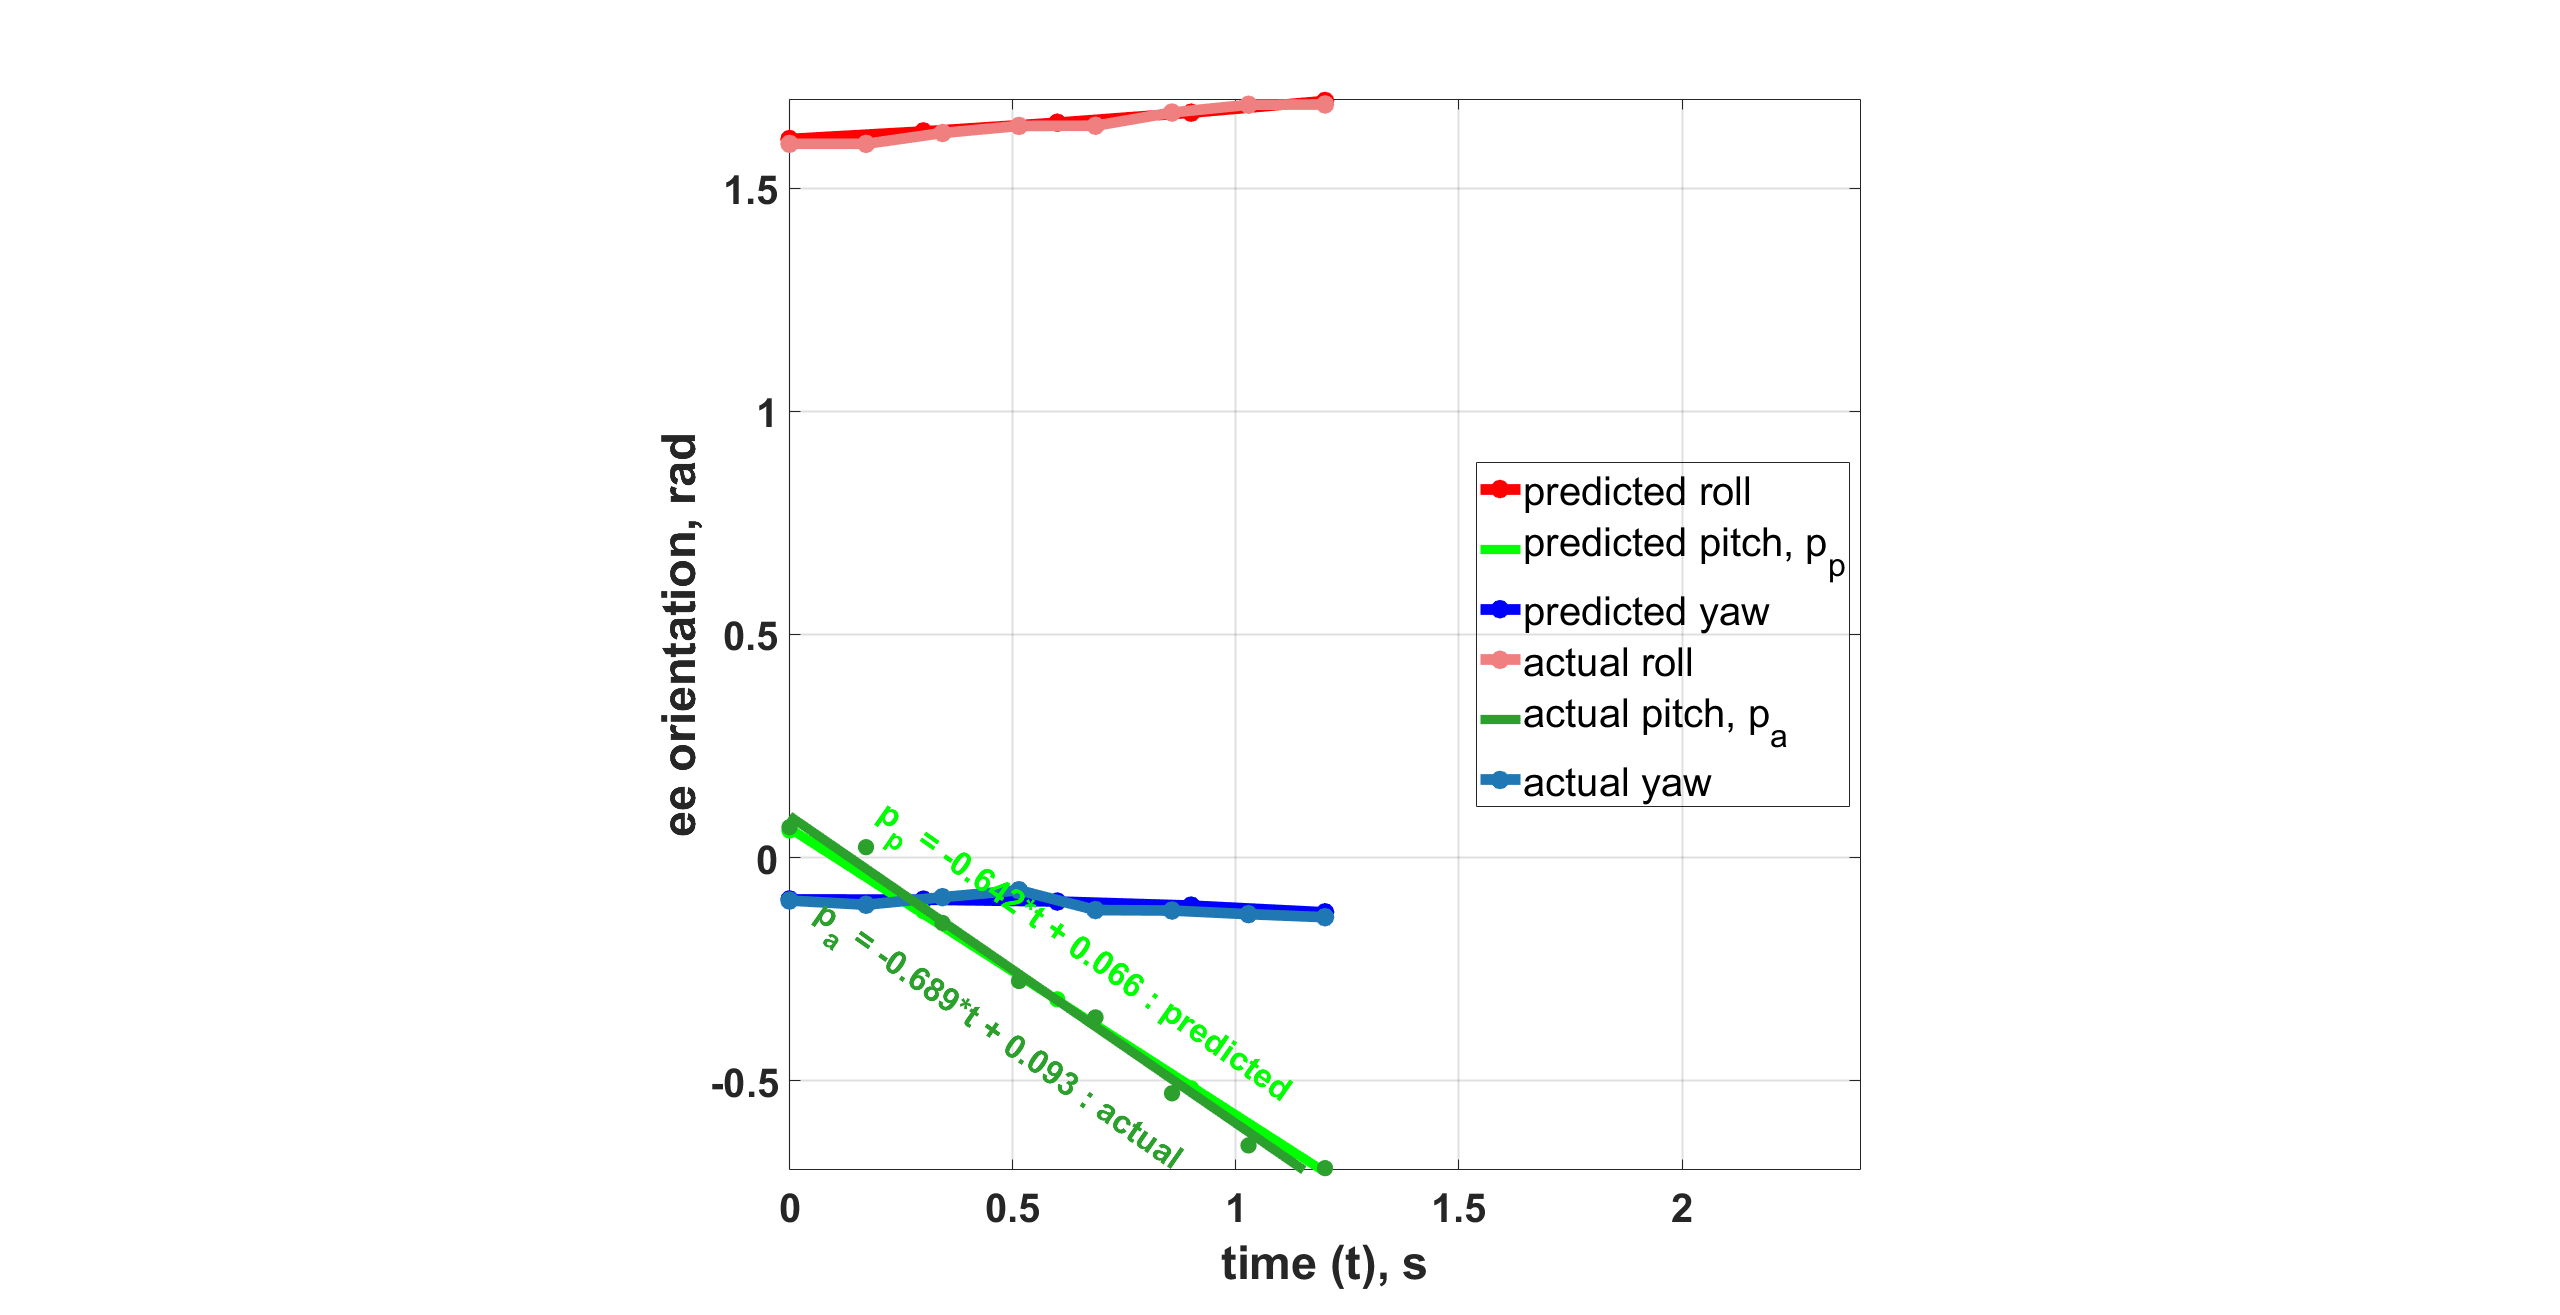
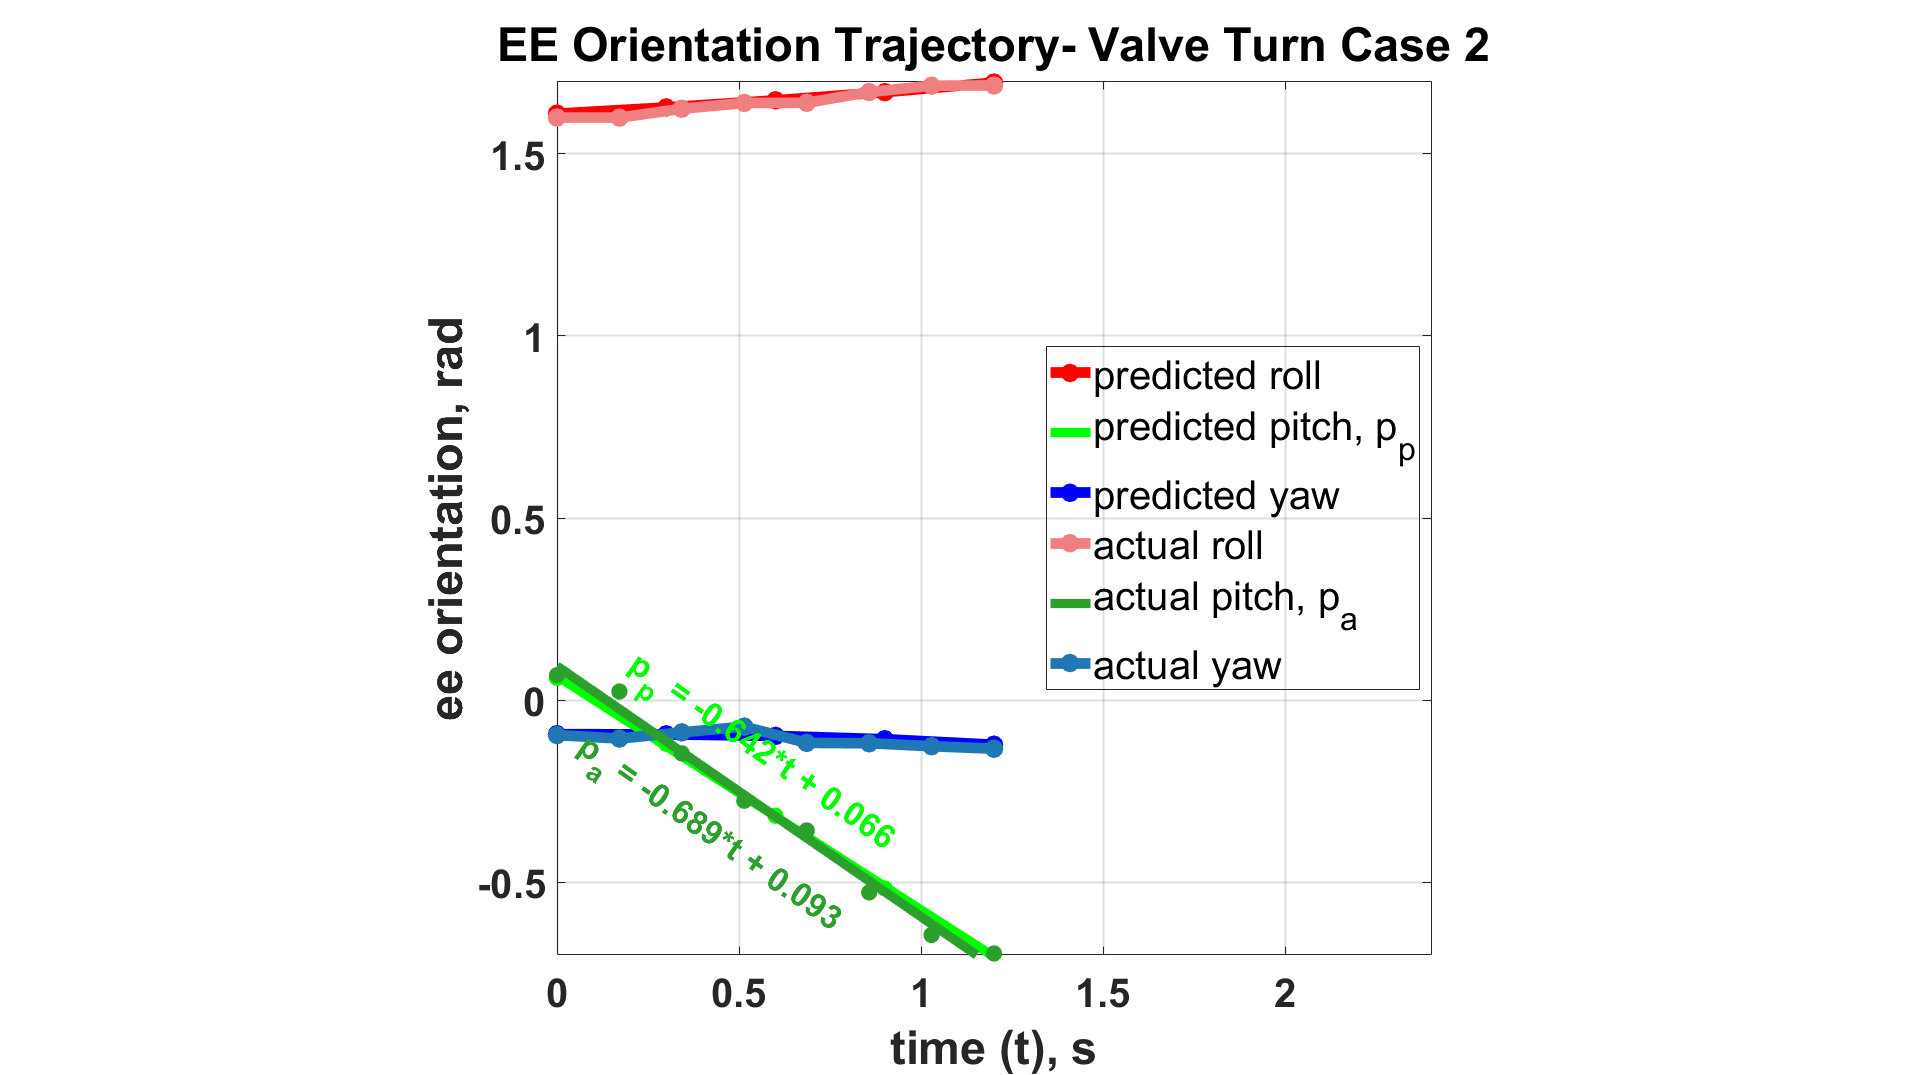
add subtitles

diff --git a/real_robot_data_plots_and_demos/orientation_experiments/valve_turn_case_2/ee_position_and_joint_states_plotter.m b/real_robot_data_plots_and_demos/orientation_experiments/valve_turn_case_2/ee_position_and_joint_states_plotter.m
@@ -210,7 +210,7 @@ ylim([-2.1 2.6])
 xlabel(ax_joint_states, 'time (s)');
 ylabel(ax_joint_states, 'joint states (rad)');
 legend(ax_joint_states,'Interpreter', 'none', 'Color', 'none'); % Don't interpret underscores as cues for subscripts, and don't fill the legend box
-% title(ax_joint_states, ['Actual Joint States vs. Time - ',title_postfix]);
+title(ax_joint_states, ['Actual Joint States vs. Time - ',title_postfix]);
 
 % Set fontsizes for various plot parameters
 ax_joint_states.XAxis.FontSize = tick_fontsize; 
@@ -226,10 +226,10 @@ ax_joint_states.Title.FontSize = title_fontsize;
 ax_joint_states.GridLineWidth = grid_lw;
 
 % Set legend position
-% legend_position = ax_joint_states.Legend.Position;
-% shift_amount_x = 0.37; 
-% shift_amount_y = 0.1825; 
-% ax_joint_states.Legend.Position = [legend_position(1) + shift_amount_x, legend_position(2)+ shift_amount_y, legend_position(3), legend_position(4)];
+legend_position = ax_joint_states.Legend.Position;
+shift_amount_x =  0.285; 
+shift_amount_y = 0.165; 
+ax_joint_states.Legend.Position = [legend_position(1) + shift_amount_x, legend_position(2)+ shift_amount_y, legend_position(3), legend_position(4)];
 
 % Plot Error between predicted and actual EE cartesian trajectory
 fig3 = figure(3); 
@@ -343,11 +343,11 @@ yticks(150:50:300)
 
 xlabel(ax_ee_traj_final, 'x(mm)');
 ylabel(ax_ee_traj_final, 'z(mm)');
-% title(ax_ee_traj_final, ['EE Trajectory and Error - ',title_postfix]);
+title(ax_ee_traj_final, ['EE Position Trajectory - ',title_postfix]);
 hLegend = legend(ax_ee_traj_final, 'Interpreter', 'none', 'Color', 'none');
 hLegend.Box = 'on'; % Turn on the legend box (if not already on)
 hLegend.Color = 'white'; % Set the background color of the legend box
-ax_ee_traj_final.Legend.Location = "southwest";
+ax_ee_traj_final.Legend.Location = "east";
 
 
 % Set fontsizes for various plot parameters
@@ -375,7 +375,7 @@ ax_ee_traj_final.Legend.FontSize = legend_fontsize;
 
 
 fig5 = figure(5);
-title_fontsize = 35;
+title_fontsize = 45;
 label_fontsize = 45;
 tick_fontsize = 40;
 grid_lw = 1.5;
@@ -391,7 +391,7 @@ plot(ax_ee_traj_error_final, ...
      'LineWidth', 8, 'MarkerSize', 12, 'DisplayName', 'trajectory error');
 xlabel(ax_ee_traj_error_final, 'predicted trajectory point index');
 ylabel(ax_ee_traj_error_final, 'ee trajectory error (mm)');
-% title(ax_ee_traj_error3, ['EE Trajectory Error - ',title_postfix]);
+title(ax_ee_traj_error_final, ['EE Position Trajectory Error - ',title_postfix]);
 
 grid on
 ylimits = ylim;
@@ -473,10 +473,10 @@ ylim([-0.7 1.7])
 
 xlabel(ax_ee_or, 'time (t), s');
 ylabel(ax_ee_or, 'ee orientation, rad');
-% title(ax_ee_or, ['EE Orientation - ',title_postfix]);
-text(ax_ee_or, 0.2, 0.1, sprintf('p_p = %.3f*t + %.3f : predicted', pred_polyfit_euler_y), ...
+title(ax_ee_or, ['EE Orientation Trajectory- ',title_postfix]);
+text(ax_ee_or, 0.2, 0.1, sprintf('p_p = %.3f*t + %.3f', pred_polyfit_euler_y), ...
     'Rotation', -35, 'FontWeight', 'bold', 'FontSize',25, 'Color', 'g');
-text(ax_ee_or, 0.06, -0.125, sprintf('p_a = %.3f*t + %.3f : actual', act_polyfit_euler_y), ...
+text(ax_ee_or, 0.06, -0.125, sprintf('p_a = %.3f*t + %.3f', act_polyfit_euler_y), ...
     'Rotation', -35, 'FontWeight', 'bold', 'FontSize',25, 'Color', '#2ca02c');
 legend([pred_or_plot_euler_x, pred_or_plot_euler_y_trend, pred_or_plot_euler_z,  act_or_plot_euler_x, act_or_plot_euler_y_trend, act_or_plot_euler_z], 'Color', 'none');
 
